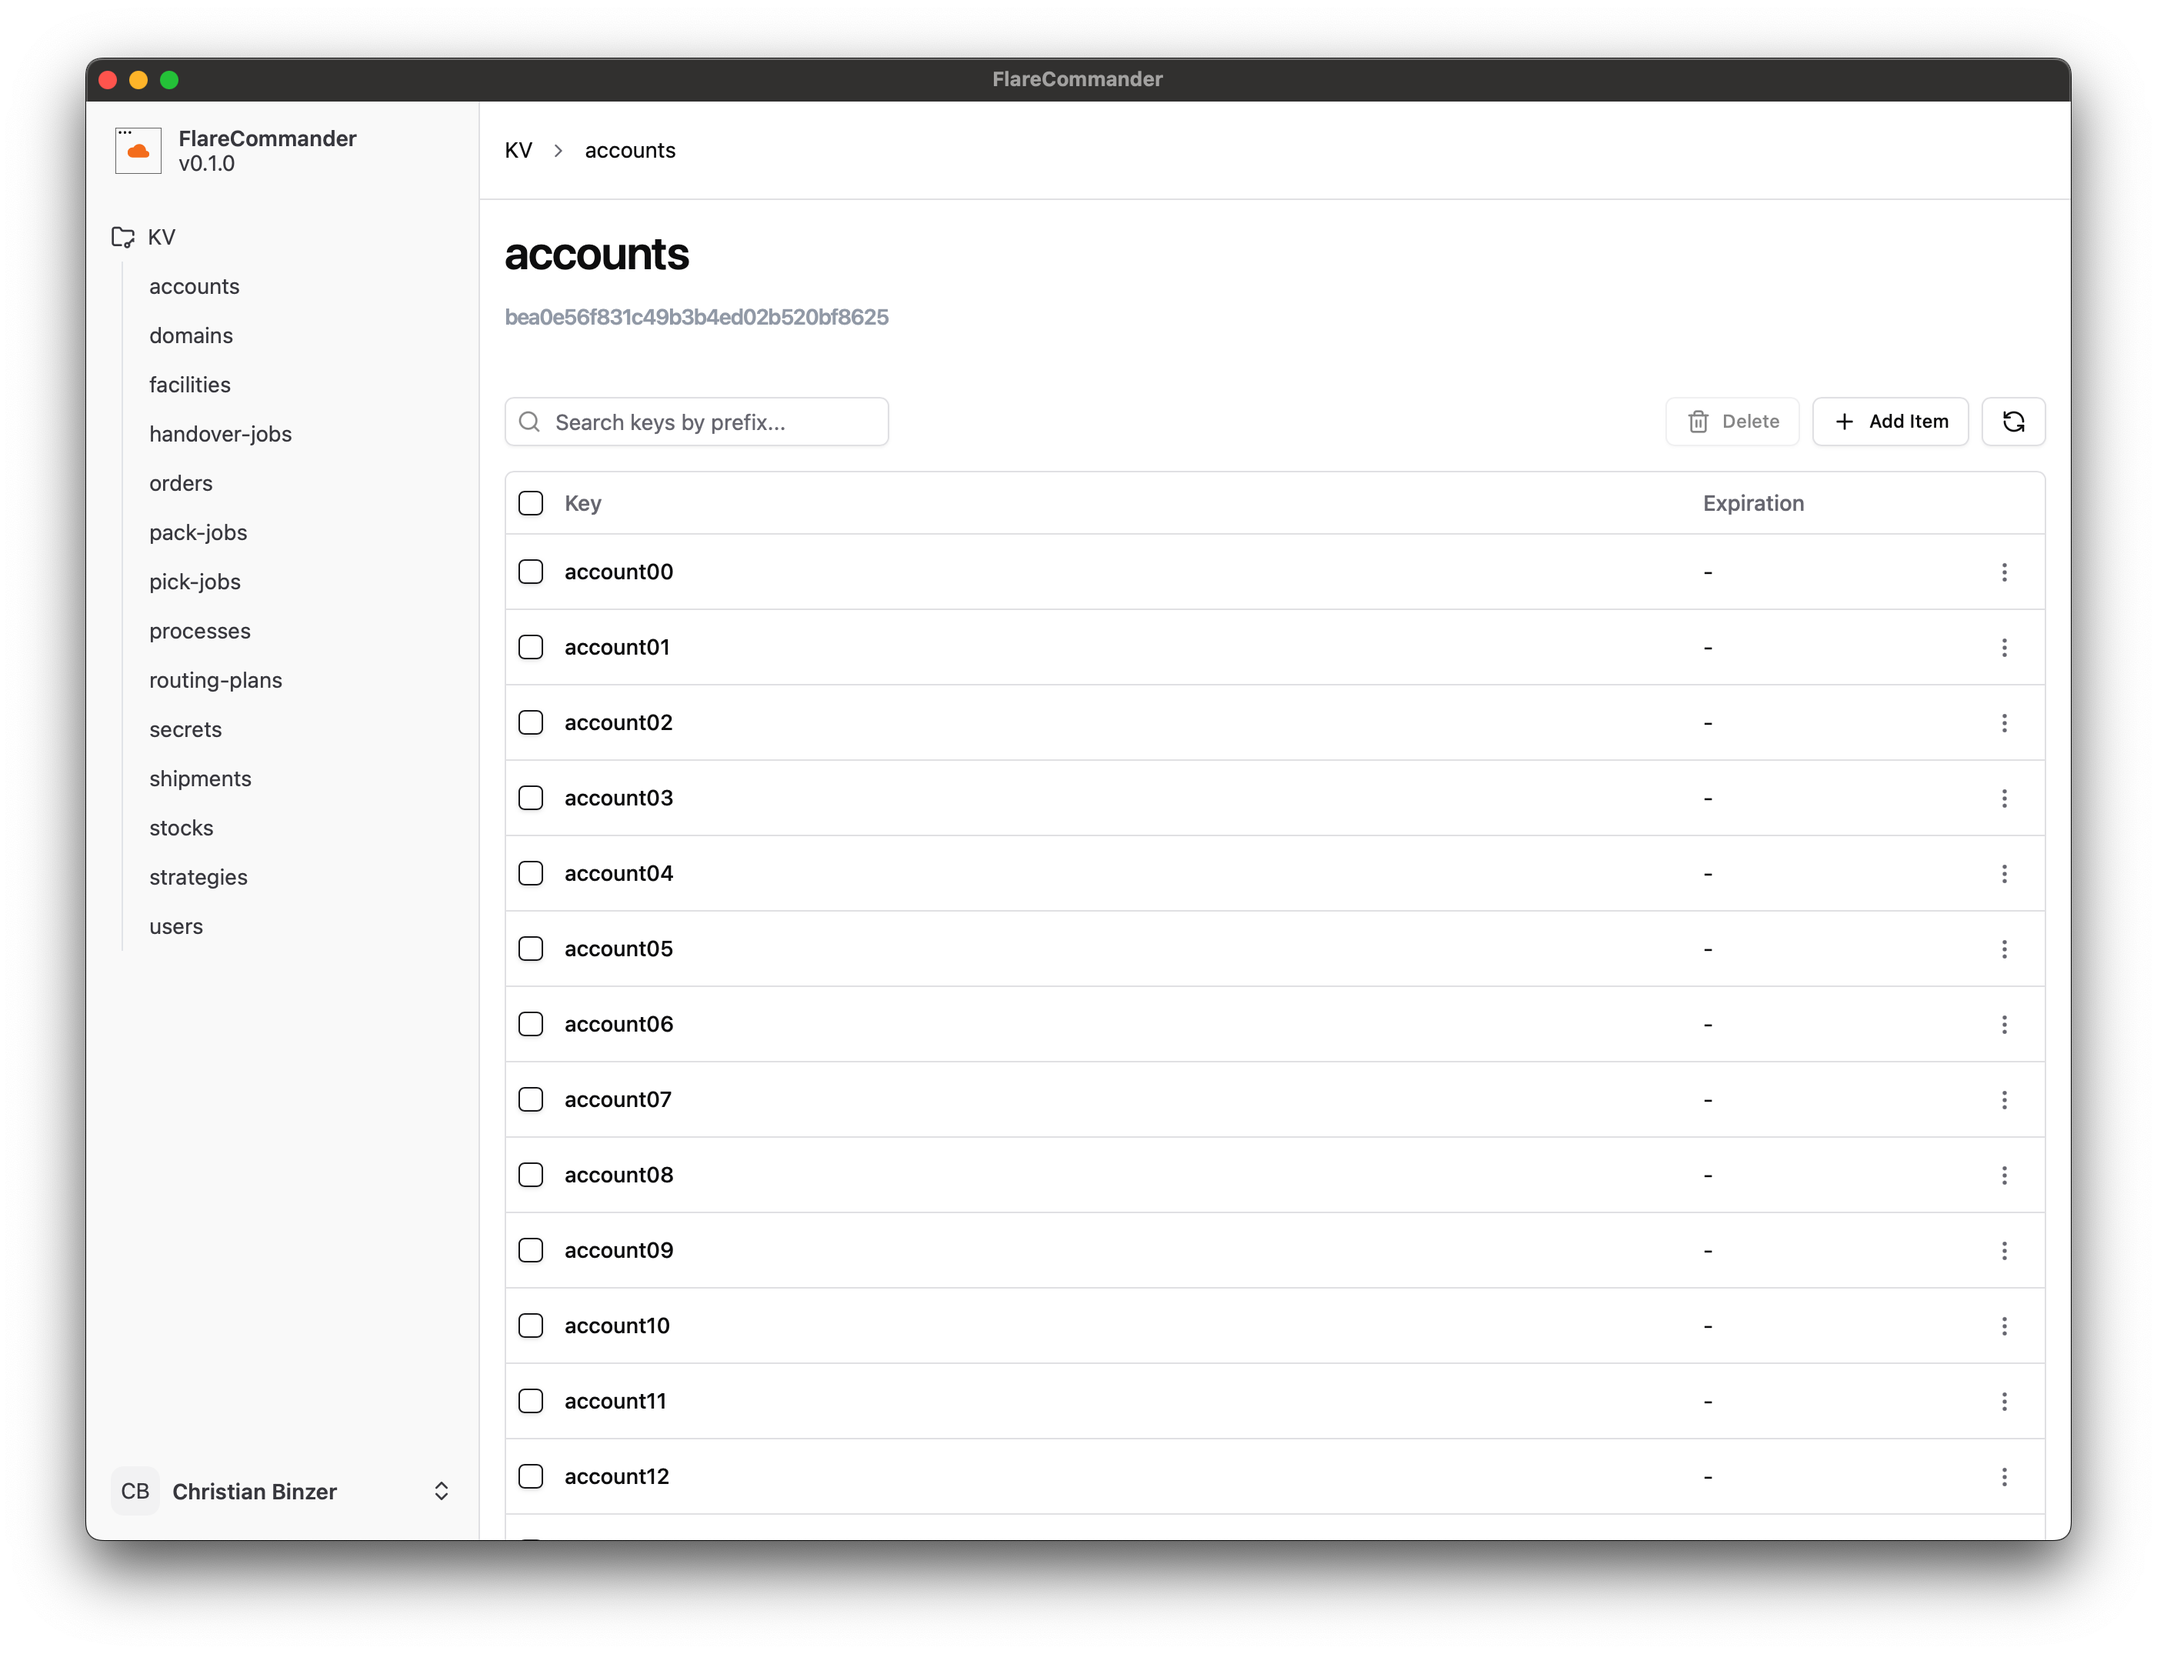
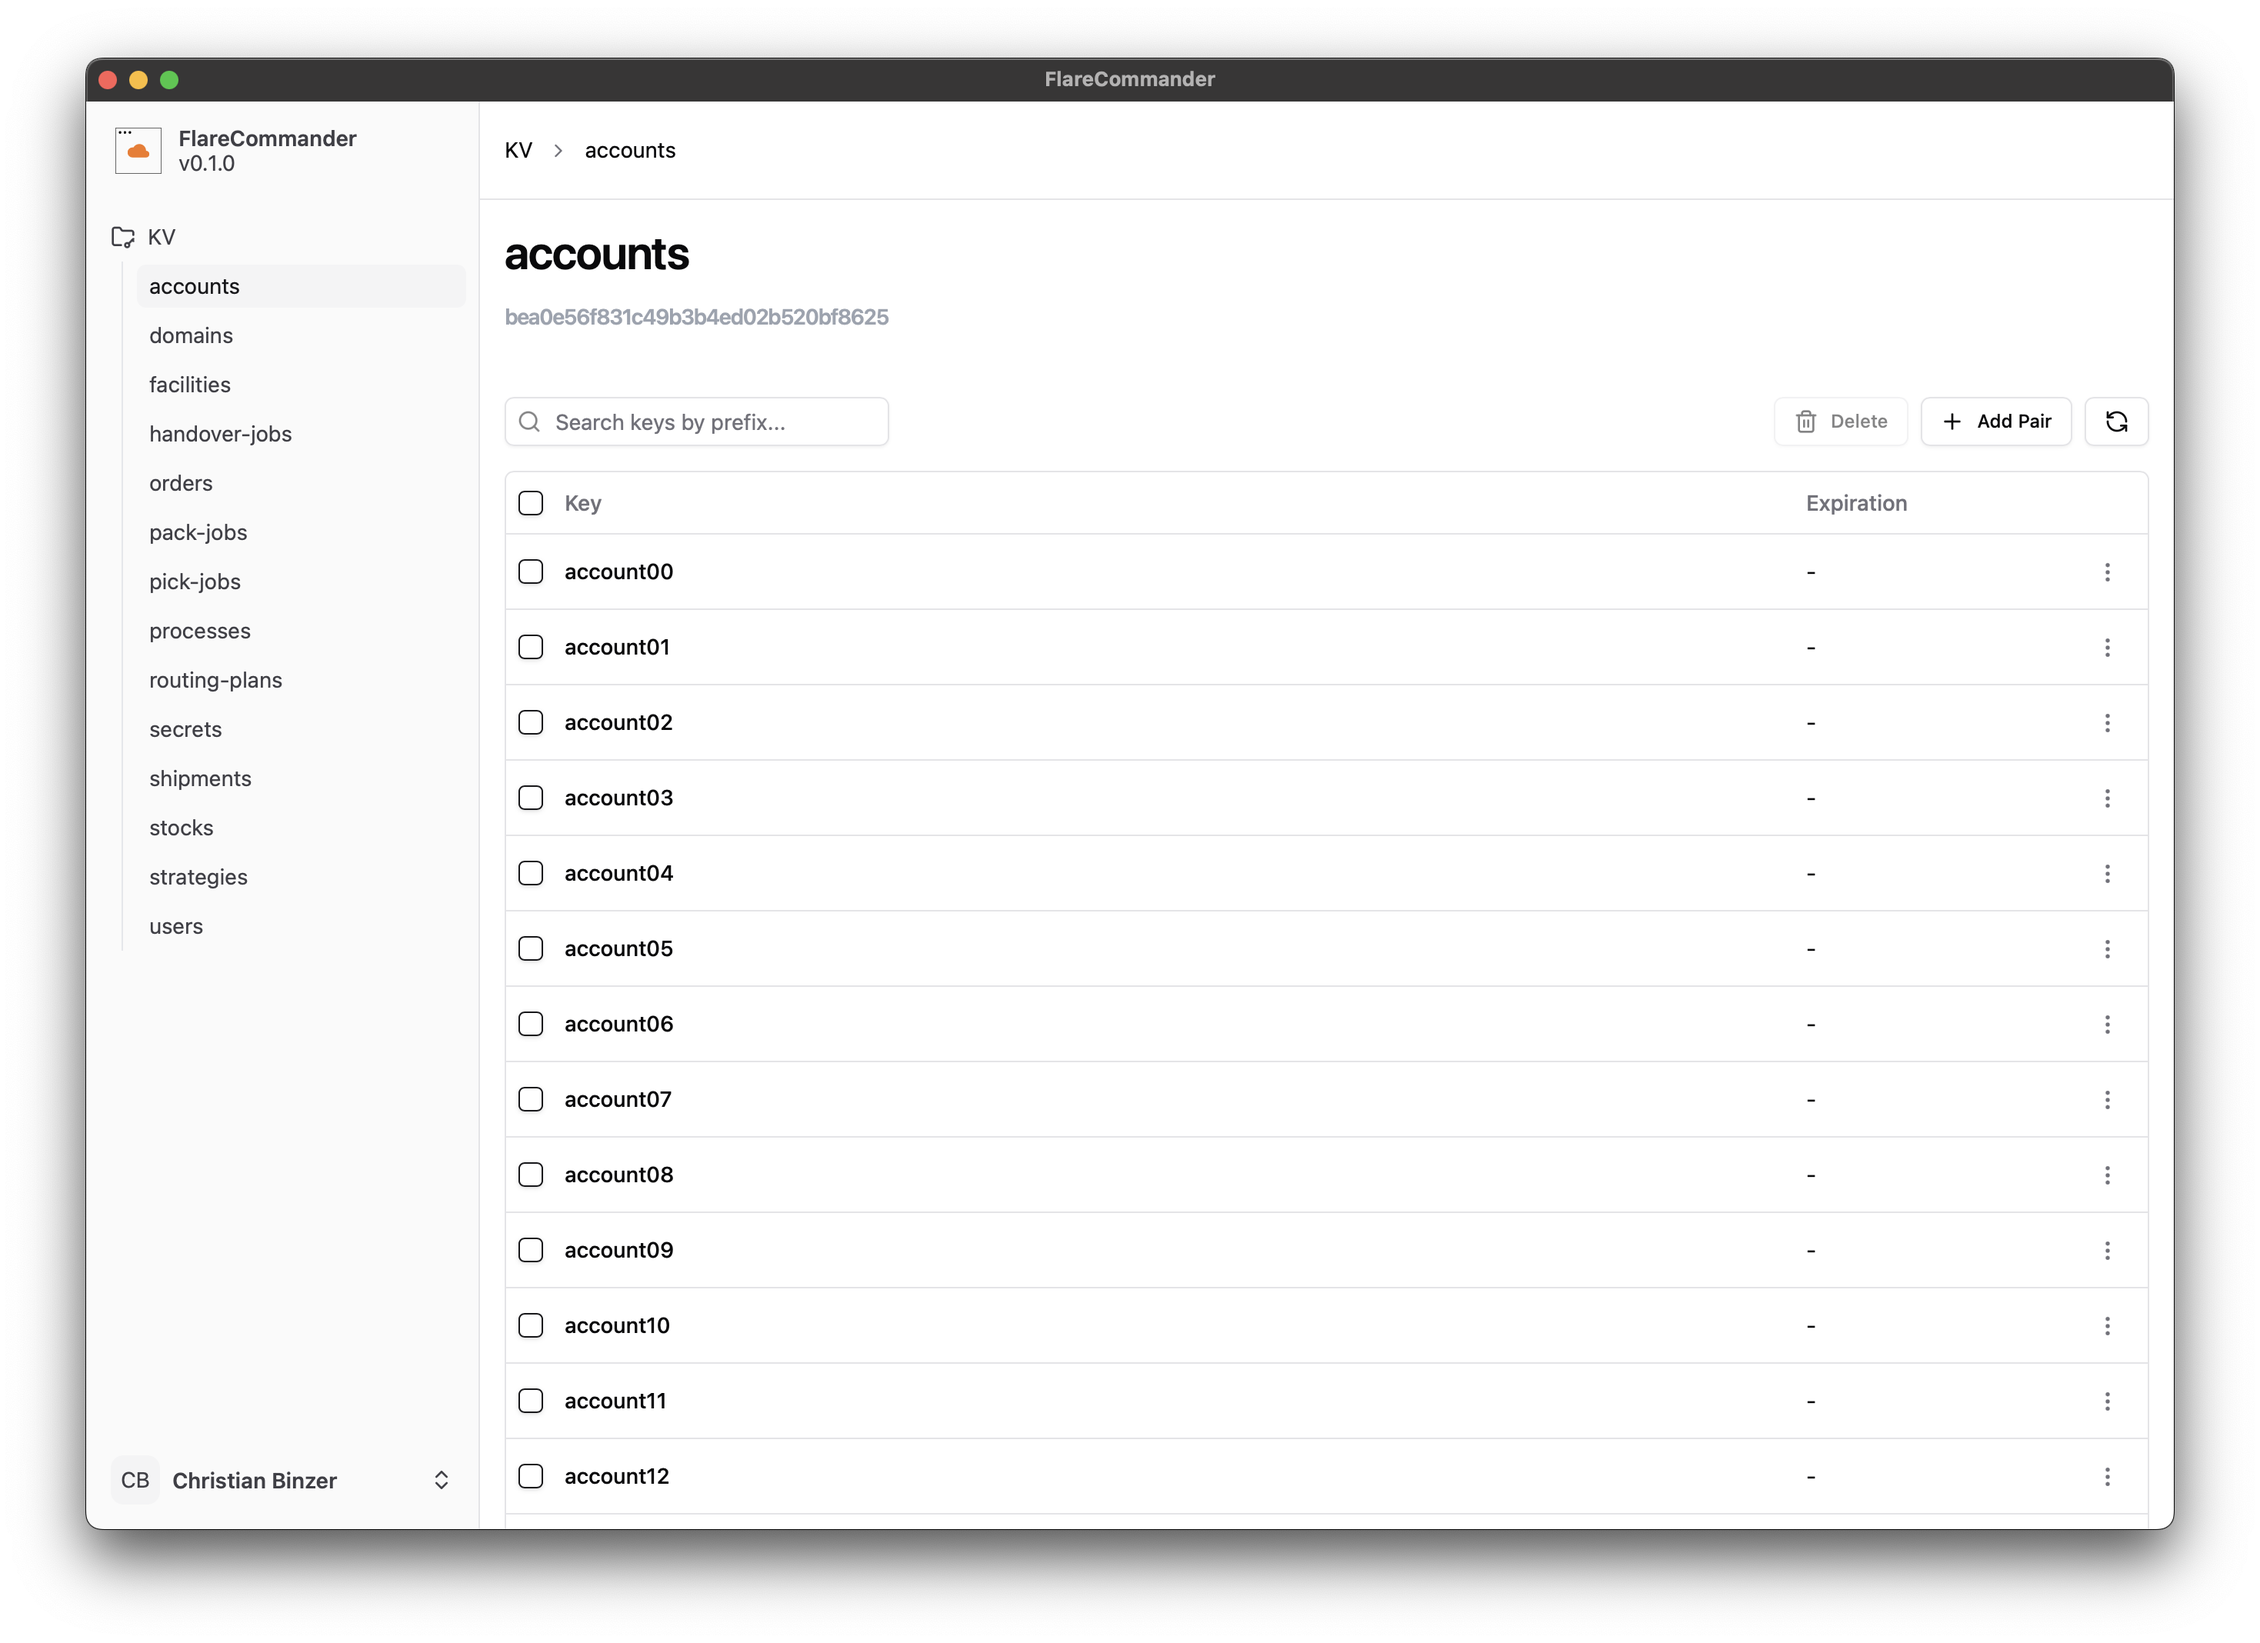
feat(kv): Update button label from "Add Item" to "Add Pair"

diff --git a/src/features/kv/components/table/kv-table.tsx b/src/features/kv/components/table/kv-table.tsx
@@ -272,7 +272,7 @@ export function KvTable({ namespace }: KvTableProps) {
           <KvPairCreateSheet namespaceId={namespace.id} onCreate={async () => await reloadKeys()}>
             <Button variant="outline" size="sm" disabled={isRefreshing}>
               <PlusIcon />
-              <span className="hidden lg:inline">Add Item</span>
+              <span className="hidden lg:inline">Add Pair</span>
             </Button>
           </KvPairCreateSheet>
           <Button variant="outline" size="sm" disabled={isRefreshing} onClick={refreshKeys}>
